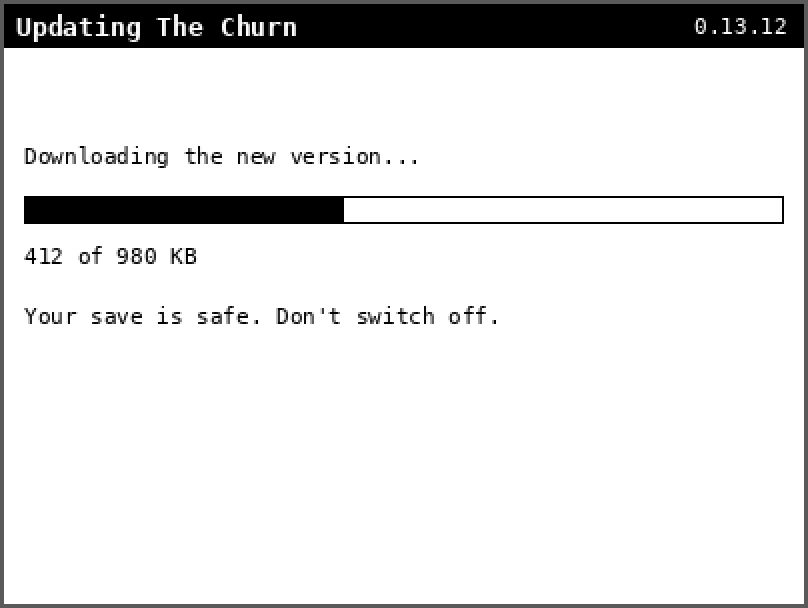
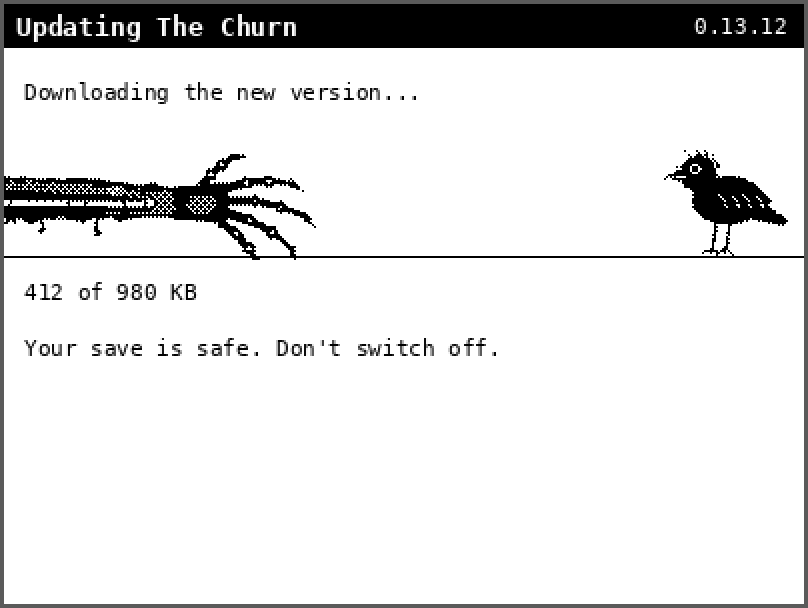
The Churn: the update bar is a rotten arm reaching for a crow
While an update downloads, a rotting arm crawls in from the left edge
of the screen. It has exposed bone, dangling skin, flies and a clawed
hand, and the claws close on a crow as the download finishes. The art
is drawn in code by tools/paint_reach.py (1-bit, dithered) into
src/38_reach_art.lua. Without bitmap support the old bar is shown.

Claude-Session: https://claude.ai/code/session_01SuvJnz175qPkCT91FUK7Pe

diff --git a/examples/churn/tools/paint_reach.py b/examples/churn/tools/paint_reach.py
@@ -1,0 +1,184 @@
+#!/usr/bin/env python3
+"""Paint the update screen's progress picture - a rotten arm crawling out of
+the left edge after a crow - into the GENERATED part src/38_reach_art.lua.
+
+    python3 tools/paint_reach.py      # then: python3 tools/build.py
+
+Drawn here in code (no source image): shapes at 4x on a white canvas, gray
+for rotting flesh, then shrunk and ordered-dithered to 1-bit like the
+portraits. White is transparent when drawn (bitmaps only set black), so
+the arm can slide over the screen. Game.ARM_ART is 384x64 (long enough to reach in from the edge), Game.CROW_ART
+64x64, both 32x32 tiles of raw bytes (src/38_update.lua draws them).
+Previews: previews/reach_arm.png and previews/reach_crow.png.
+"""
+import math
+import pathlib
+import random
+import sys
+
+import numpy as np
+from PIL import Image, ImageDraw
+
+sys.path.insert(0, str(pathlib.Path(__file__).resolve().parent))
+from paint_portraits import dither, pack_tiles  # noqa: E402
+from paint_title import lua_bytes  # noqa: E402
+
+ROOT = pathlib.Path(__file__).resolve().parent.parent
+OUT = ROOT / "src" / "38_reach_art.lua"
+S = 4                      # drawn at 4x, then shrunk
+BLACK, ROT, BRUISE, BONE, WHITE = 0, 90, 150, 235, 255
+
+
+def ragged(points, rnd, amp):
+    """Jitter a polygon's points (torn skin)."""
+    return [(x + rnd.uniform(-amp, amp), y + rnd.uniform(-amp, amp)) for x, y in points]
+
+
+def arm():
+    W, H = 384 * S, 64 * S
+    img = Image.new("L", (W, H), WHITE)
+    d = ImageDraw.Draw(img)
+    rnd = random.Random(7)
+    L = 298                 # the wrist, in final pixels
+    wrist_x, mid = L * S, 36 * S
+
+    # the forearm: thick at the left edge, thin at the wrist, sagging a little
+    top, bot = [], []
+    for i in range(0, 61):
+        t = i / 60
+        x = t * wrist_x
+        half = (15 - 7 * t * t) * S
+        y = mid + math.sin(t * math.pi * 2) * 2.5 * S
+        top.append((x, y - half))
+        bot.append((x, y + half))
+    outline = ragged(top, rnd, 1.2 * S) + ragged(bot[::-1], rnd, 1.6 * S)
+    d.polygon(outline, fill=BLACK)
+    inner = ragged([(x, y + 2.5 * S) for x, y in top], rnd, 1.0 * S) + \
+        ragged([(x, y - 2.5 * S) for x, y in bot[::-1]], rnd, 1.0 * S)
+    d.polygon(inner, fill=ROT)
+    # bruised, sloughing patches and black rot holes
+    for _ in range(22):
+        cx, cy = rnd.uniform(4, L - 20) * S, mid + rnd.uniform(-8, 8) * S
+        r = rnd.uniform(2, 5) * S
+        d.ellipse((cx - r, cy - r * 0.7, cx + r, cy + r * 0.7), fill=BRUISE)
+    for _ in range(28):
+        cx, cy = rnd.uniform(4, L - 10) * S, mid + rnd.uniform(-9, 9) * S
+        r = rnd.uniform(0.8, 2.2) * S
+        d.ellipse((cx - r, cy - r, cx + r, cy + r), fill=BLACK)
+    # torn open: the bone shows through, from mid-arm to the wrist
+    gx0, gx1 = (L - 100) * S, (L - 20) * S
+    d.polygon(ragged([(gx0, mid - 6 * S), (gx1, mid - 4 * S), (gx1 + 6 * S, mid + 1 * S),
+                      (gx1, mid + 5 * S), (gx0 + 8 * S, mid + 6 * S), (gx0 - 4 * S, mid)], rnd, 1.5 * S),
+              fill=BLACK)
+    d.line((gx0 + 2 * S, mid - 1 * S, gx1 + 4 * S, mid), fill=BONE, width=int(3.2 * S))
+    for kx in (gx0 + 2 * S, gx1 + 4 * S):   # the knobs at the bone's ends
+        d.ellipse((kx - 3 * S, mid - 3.5 * S, kx + 3 * S, mid + 2.5 * S), fill=BONE, outline=BLACK, width=S)
+    for _ in range(5):   # sinew strands across the gap
+        x = rnd.uniform(gx0 + 8 * S, gx1 - 6 * S)
+        d.line((x, mid - 5 * S, x + rnd.uniform(-4, 4) * S, mid + 5 * S), fill=BLACK, width=S)
+    # skin hanging off the underside, dripping
+    for _ in range(14):
+        x = rnd.uniform(10, L - 10) * S
+        y0 = bot[min(60, int(x / wrist_x * 60))][1] - S
+        ln = rnd.uniform(4, 11) * S
+        d.line((x, y0, x + rnd.uniform(-2, 2) * S, y0 + ln), fill=BLACK, width=int(1.4 * S))
+        d.ellipse((x - 1.2 * S, y0 + ln - S, x + 1.6 * S, y0 + ln + 1.8 * S), fill=BLACK)
+
+    # the hand: a broad palm, a thumb hooked up, four long fingers curling
+    # to grab, each with swollen knuckles and a cracked claw
+    px, py = wrist_x + 16 * S, mid
+    d.polygon(ragged([(wrist_x - 4 * S, py - 8 * S), (px + 4 * S, py - 11 * S), (px + 8 * S, py - 2 * S),
+                      (px + 5 * S, py + 10 * S), (wrist_x - 4 * S, py + 8 * S)], rnd, 0.8 * S), fill=BLACK)
+    d.ellipse((wrist_x + 2 * S, py - 5 * S, px + 1 * S, py + 5 * S), fill=ROT)
+    fingers = ((px - 6 * S, py - 9 * S, -62, 22, 10),          # the thumb
+               (px + 5 * S, py - 8 * S, -22, 34, 9), (px + 7 * S, py - 2 * S, -6, 40, 9),
+               (px + 6 * S, py + 4 * S, 9, 38, 10), (px + 3 * S, py + 9 * S, 24, 30, 12))
+    for x, y, ang, length, curl in fingers:
+        a = math.radians(ang)
+        joints = [(x, y)]
+        seg = length / 3
+        for k in range(3):
+            a += math.radians(curl)
+            x, y = x + math.cos(a) * seg * S, y + math.sin(a) * seg * S
+            joints.append((x, y))
+        for k, ((x0, y0), (x1, y1)) in enumerate(zip(joints, joints[1:])):
+            d.line((x0, y0, x1, y1), fill=BLACK, width=int((4.6 - 0.8 * k) * S))
+        for jx, jy in joints[1:-1]:
+            d.ellipse((jx - 2.8 * S, jy - 2.8 * S, jx + 2.8 * S, jy + 2.8 * S), fill=BLACK)
+            d.ellipse((jx - 0.9 * S, jy - 0.9 * S, jx + 0.9 * S, jy + 0.9 * S), fill=BONE)
+        (x0, y0), (x1, y1) = joints[-2], joints[-1]
+        ux, uy = x1 - x0, y1 - y0
+        n = math.hypot(ux, uy)
+        ux, uy = ux / n, uy / n
+        a2 = math.atan2(uy, ux) + math.radians(30)   # the claw hooks down
+        tip = (x1 + math.cos(a2) * 7 * S, y1 + math.sin(a2) * 7 * S)
+        d.polygon([(x1 - uy * 2 * S, y1 + ux * 2 * S), (x1 + uy * 2 * S, y1 - ux * 2 * S), tip], fill=BLACK)
+    # flies
+    for _ in range(9):
+        fx, fy = rnd.uniform(20, L - 10) * S, rnd.uniform(3, 14) * S
+        d.ellipse((fx - S, fy - S * 0.7, fx + S, fy + S * 0.7), fill=BLACK)
+        d.line((fx - 2 * S, fy - 1.5 * S, fx, fy), fill=BLACK, width=max(1, S // 2))
+    return img
+
+
+def crow():
+    W = H = 64 * S
+    img = Image.new("L", (W, H), WHITE)
+    d = ImageDraw.Draw(img)
+    rnd = random.Random(3)
+    # the body, leaning forward (it faces left, toward the hand)
+    d.ellipse((14 * S, 22 * S, 50 * S, 46 * S), fill=BLACK)
+    d.polygon(ragged([(44 * S, 30 * S), (62 * S, 44 * S), (60 * S, 48 * S), (40 * S, 42 * S)], rnd, S),
+              fill=BLACK)                                         # the tail
+    d.ellipse((8 * S, 12 * S, 26 * S, 30 * S), fill=BLACK)         # the head
+    for i in range(7):                                             # hackles, ruffled
+        a = math.radians(200 + i * 22)
+        cx, cy = 18 * S + math.cos(a) * 9 * S, 21 * S + math.sin(a) * 9 * S
+        d.polygon([(cx, cy), (cx + math.cos(a) * 4 * S - 2 * S, cy + math.sin(a) * 4 * S),
+                   (cx + 2 * S, cy + S)], fill=BLACK)
+    d.polygon([(10 * S, 18 * S), (-1 * S, 23 * S), (11 * S, 25 * S)], fill=BLACK)   # the beak, open
+    d.line((1 * S, 23 * S, 10 * S, 22 * S), fill=WHITE, width=S)
+    d.ellipse((13 * S, 16 * S, 18 * S, 21 * S), fill=WHITE)        # the eye, watching
+    d.ellipse((14 * S, 17 * S, 16.5 * S, 19.5 * S), fill=BLACK)
+    # the wing: ragged feathers, a few pale edges
+    feathers = [(20 * S, 26 * S)]
+    for i in range(8):
+        x = 24 * S + i * 3.6 * S
+        feathers += [(x, 40 * S + rnd.uniform(0, 3) * S), (x + 1.8 * S, 36 * S)]
+    feathers += [(54 * S, 34 * S), (40 * S, 25 * S)]
+    d.polygon(feathers, fill=BLACK)
+    for i in range(4):
+        x = 27 * S + i * 6 * S
+        d.line((x, 30 * S, x + 5 * S, 38 * S), fill=BRUISE, width=S)
+    # legs and claws on the ground
+    for lx in (26 * S, 33 * S):
+        d.line((lx, 44 * S, lx - 2 * S, 58 * S), fill=BLACK, width=int(1.6 * S))
+        for dx in (-5, -1, 3):
+            d.line((lx - 2 * S, 58 * S, lx - 2 * S + dx * S, 61 * S), fill=BLACK, width=S)
+    return img
+
+
+def bake(img, name, w, h):
+    small = img.resize((w, h), Image.LANCZOS)
+    bits = dither(small, lo=0.08, hi=0.96, gamma=0.9)
+    Image.fromarray(np.uint8(~bits) * 255, "L").resize((w * 3, h * 3), Image.NEAREST) \
+        .save(ROOT / "previews" / ("reach_%s.png" % name))
+    data, tw, th = pack_tiles(bits)
+    print("%s: %d bytes, %d%% ink" % (name, len(data), int(bits.mean() * 100)))
+    return lua_bytes(data), tw, th
+
+
+def main():
+    lines = ["-- GENERATED by tools/paint_reach.py - do not edit. The update screen's",
+             "-- progress picture: an arm (384x64) reaching for a crow (64x64), 1-bit,",
+             "-- tiles of 32x32 (128 bytes each, row-major, LSB = leftmost pixel)."]
+    for field, name, img, w, h in (("ARM_ART", "arm", arm(), 384, 64), ("CROW_ART", "crow", crow(), 64, 64)):
+        lit, tw, th = bake(img, name, w, h)
+        lines += ["Game.%s = {w = %d, h = %d, tw = %d, th = %d," % (field, w, h, tw, th),
+                  "    data = %s}" % lit]
+    OUT.write_text("\n".join(lines) + "\n")
+    print("wrote", OUT.name)
+
+
+if __name__ == "__main__":
+    main()

diff --git a/examples/churn/HANDOFF.md b/examples/churn/HANDOFF.md
@@ -146,6 +146,7 @@ The sim is not byte-reproducible between processes (Lua 5.4 varies `pairs` order
 > - **Phantom freeze** (2026-10-07): at dread 70+ a move can raise a phantom (a copy of a night horror, `def.phantom`). `encounter_action` sent every action on one to `phantom_gone`, Continue included, so "You blink. There's nothing there." repeated forever and the screen never left (seen on the SolarTerm as "the Crawler freezes"). Now only while `not e.over`. Test: `mechanics_test` 4. Also new: a crash (any Lua error in the main loop) writes the traceback to `churn/crash.txt` and shows it on a "The Churn crashed" screen until a key or a minute, before `gfx.end` and the re-raise (`crash_test`).
 > - **Update on open** (2026-10-07): new `src/38_update.lua` (`Game.UPDATE`). `intro_key` (leaving the splash) runs `Game:update_check()` once when `Game.update_possible()`: `solaros.http.stream_open`, storage with `write_file` and `rename`, `wifi.status().has_ip` (never starts Wi-Fi) and a churn.lua found by `Game.update_target()` (the updater's search list). It GETs raw `tools/version.json` from `main` (4 s timeout) and compares series.build with `Game.VERSION` (`Game.version_newer`). Newer: `self.update_avail`, a title row "Update to x.y.z" plus a note. Picking it runs `Game:update_download()`: streams churn.lua to `.new` in 32 KB writes with a progress screen, checks size against Content-Length, > 100 KB and "The Churn" in the head, renames old to `.bak`, new into place (restores on a failed rename), then "Quit and start the game again". Any failure removes `.new` and says "Update failed: ... Nothing changed." Test: `update_test` (a fake HTTP server); previews `preview_title_update.png`, `preview_update_progress.png`. Note: whatever is pushed to `main` reaches devices the next time they open the game.
 > - **Caps Lock** (2026-10-07): every binding is a lowercase letter, so with Caps Lock on (the SolarTerm sending A-Z) only Shift+key worked. The main loop now reads keys through `Game.norm_key` (68_ui: 65-90 -> +32; arrows are 0x80+). Test: `playtest_test` 19.
+> - **The reaching arm** (2026-10-07): the update progress bar is now a picture: a rotten arm (Game.ARM_ART, 384x64) slides in from the left edge, claws closing on a crow (Game.CROW_ART, 64x64) as the download ends. Both are drawn in code by `tools/paint_reach.py` (shapes at 4x, gray rot, Bayer dither) into the generated `src/38_reach_art.lua` (3.5 KB of tiles); `Game.UPDATE.reach_tip` is the claw tip's x in the arm. Tiles off the left edge are skipped, the firmware clips the rest. No bitmaps: the plain bar. Previews `preview_update_start/progress/done.png`, `reach_arm.png`, `reach_crow.png`.
 > - Tests: new `playtest_test.lua`; `trade_test` 4b (rubles), `regression_test` 17, `skills_test` 3, `records_test` 9; `radiation_test` 2 reads every log line (a cairn or a tip could push the feeling off the 3-line log: a flake on ~1 seed in 4).
 >
 > **"13456" (2026-10-03):**
